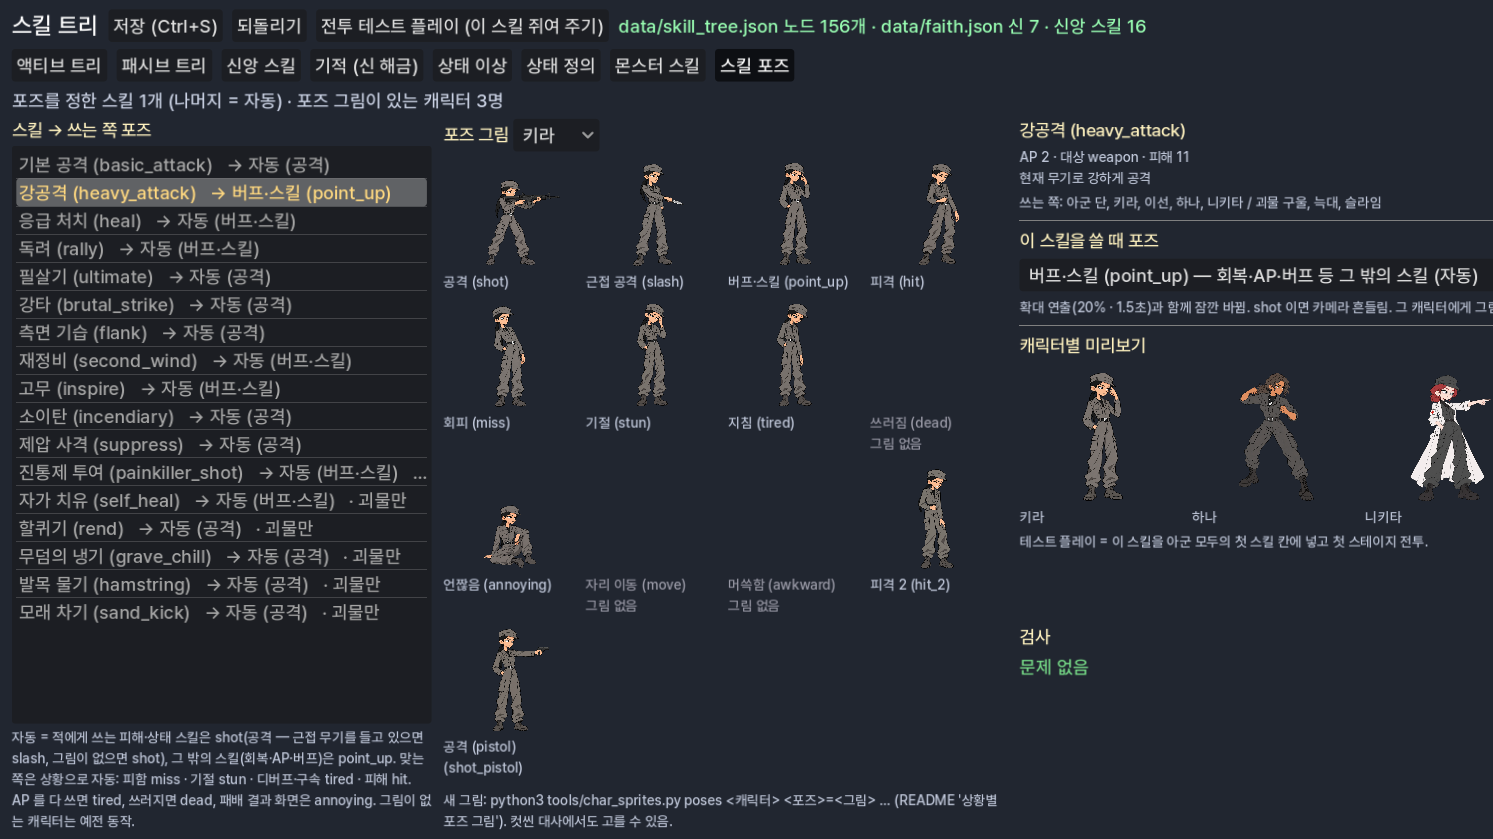
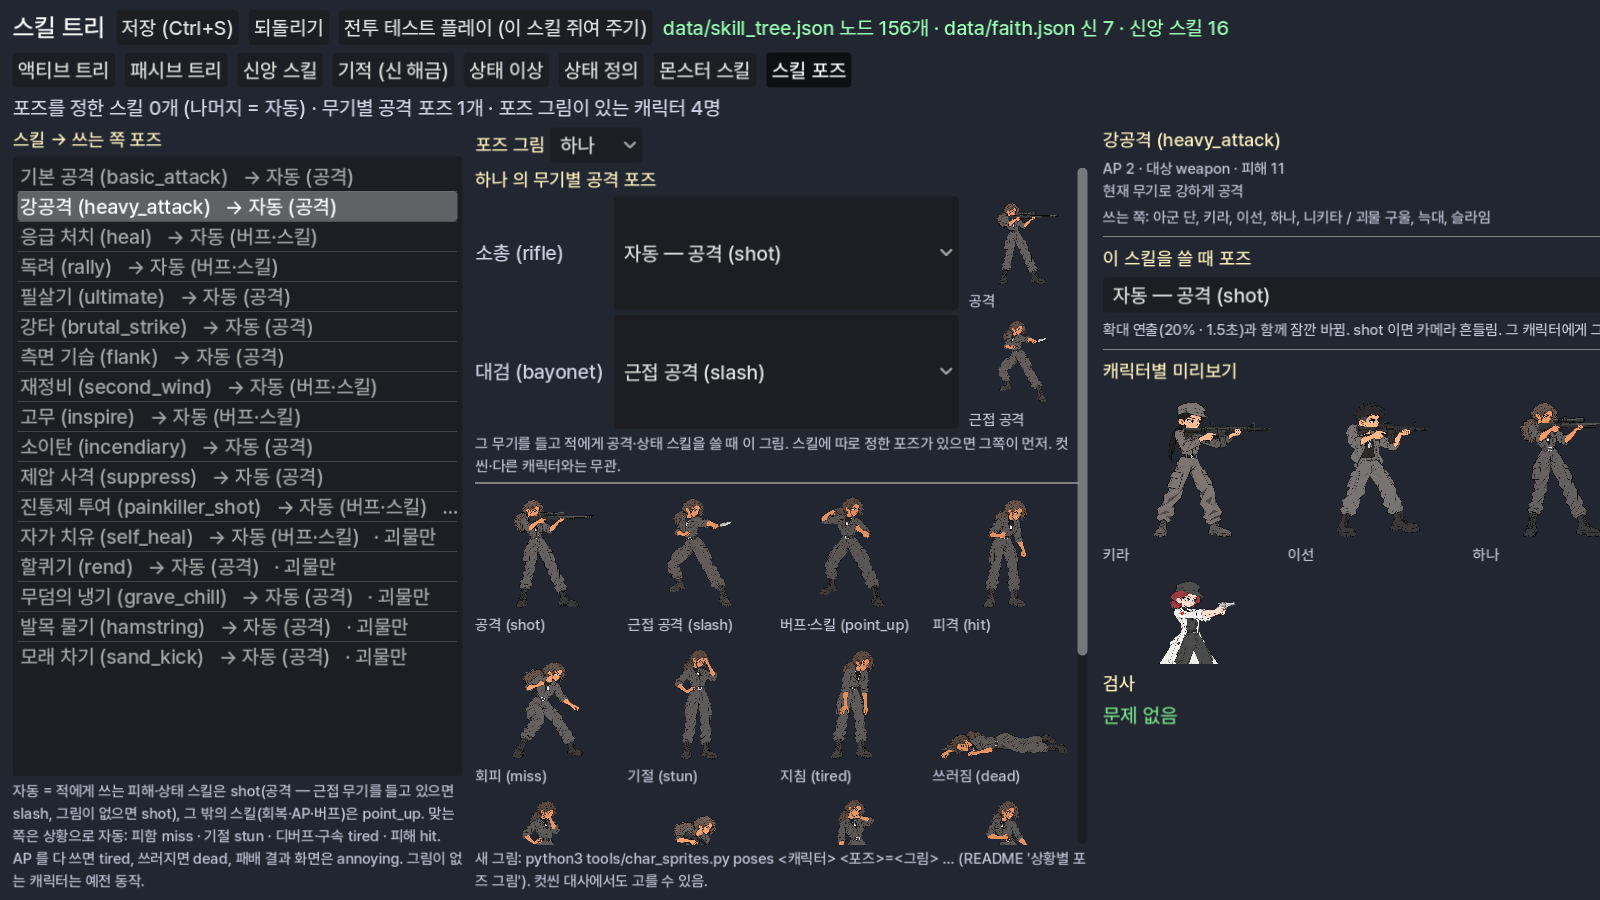
캐릭터 · 무기별 공격 그림을 에디터에서 고름
- SkillPoseData: weapons {캐릭터: {무기: 포즈}} 읽기·쓰기·검사, caster_poses 우선순위 (스킬 포즈 → 무기별 → 자동)
- 스킬 포즈 에디터: 캐릭터 무기마다 공격 포즈 고르기 (자동이면 실제 쓰일 그림 표시)
- 테스트 · 문서 · 스크린샷

Claude-Session: https://claude.ai/code/session_014aytw3hj7boqn3SZ5GP5ti

diff --git a/docs/design/PROTOTYPE_GDD_v1_0.md b/docs/design/PROTOTYPE_GDD_v1_0.md
@@ -4,7 +4,7 @@
 
 ## 0. 현재 구현 반영 (변경될 때마다 갱신)
 > 아래는 원 기획 이후 사용자 결정으로 바뀐 내용. 상세 결정 이력은 `00_decision_log_v1_0.md`, 아트 규격은 `../ui_art_spec.md`.
-> 마지막 갱신: 2026-10-29 (기지 대원 조명 실시간 탐침 · 둥근 발밑 그림자 제거 · 자리 이동은 대원 몸 클릭도)
+> 마지막 갱신: 2026-10-29 (캐릭터 · 무기별 공격 그림을 에디터에서 고름)
 
 - **표현**: 캐릭터 2D **스프라이트 프레임 애니메이션**(**스프라이트 시트** `assets/characters/<id>/<동작>_<칸 수>.png`, 사용자가 제작 — 시트 없는 동작은 기본 그림 한 장. 현재: 하나·니키타·키라·단·이선·앨마 idle(기본 그림 숨쉬기) — 니키타(빨간 머리 의무병 코트)·키라(회색 군복, 최종)·하나(곱슬머리 군복·오른쪽 눈 아래 점, 최종)·앨마(흰 의무 가운)는 새 그림으로 교체되어 예전 걷기·피격·공격 시트는 지움) + 배경 3D(실광원·그림자). Skeleton2D 리그·3D 캐릭터 전환은 제거.
   칠 방식: **전 캐릭터 네온 칠**(선화는 원화 그대로, 면은 원화 밝기대로 조명색으로 덮음 — 어두운 면은 깊은 보라, 밝은 면은 조명색). `character.json` `"style": "classic"` 이면 예전 셀 칠, `"neon_gradient"` 0~1 = 몸 위→아래 색상 그라데이션(기본 끔).
@@ -30,7 +30,7 @@
 - **레벨·스킬**: 전투 출전 → 경험치(승리 100 / 패배 40) → 레벨 업마다 스킬 포인트 +1(처음 1). 기지 `스킬` 버튼·대원 우클릭으로 **스킬 창**: 왼쪽 = 대원 목록(위아래 스크롤, 대원이 늘어나도 그대로), 위 탭 = **액티브 · 패시브 · 신앙** 스킬.
   **액티브**(전투 스킬 강화 · 새 스킬) · **패시브**(능력치) 트리. **모양은 캐릭터마다 자유**(격자 칸 위치 + 선행 선): 시작 노드는 처음부터, 선행을 배워야 다음(하나라도 / 모두), 같은 택일 그룹은 트리마다 하나. 지금 기본 데이터는 모두 십자형(중앙 + 화력·기동·생존·전술 3단계, 갈래 끝 = 택일). 스킬 포인트는 두 트리 공용. 레벨 미달 = 회색 + 붉은 "경험 부족".
   효과는 기지에서 출전한 전투에만(복제본). **노드는 `data/skill_tree.json` — Godot 에디터 `스킬 트리` 탭에서 직접 짬**(빈 칸 클릭 = 새 노드 · 끌어 옮기기 · Shift+클릭 선 잇기 · 모양 틀 5종 · 갈래 색 · 시작 노드 · 선행 · 택일 그룹, 이름·필요 레벨·효과·값·설명, 다른 캐릭터 트리 모양째 가져오기, 검사, 테스트 플레이). 새 스킬은 지금 액티브 갈래 끝에서만(기본 스킬 칸 3개). [임시] 수치·필요 레벨(시작 +0/+2/+4)·무료 초기화.
-- **상황별 포즈 그림**: 캐릭터별 한 장 그림 — 하나 12장(hit · hit_2 · miss · shot 저격총 · slash 대검 · tired · dead · point_up · stun · annoying · move 자리 이동 · awkward 대화용 · shot_pistol) · 이선 9장(dead · hit · tired · slash · shot · shot_pistol · miss · stun · annoying) · 키라 10장(hit · hit_2 · miss · stun · slash · tired · annoying · shot · shot_pistol · point_up) · 같은 포즈의 다른 그림(<포즈>_2)은 무작위 · 무기별 그림(<포즈>_<무기>)은 그 무기일 때 먼저 · 니키타 8장: shot(공격) · point_up(버프·스킬) · hit(피격) · miss(회피) · stun(기절) · tired(디버프·구속·AP 다 씀=탈진) · dead(쓰러짐, 회색 처리 없음) · annoying(패배 결과 화면). 쓰는 쪽 포즈는 스킬마다 에디터 `스킬 포즈`(data/skill_poses.json, 자동 = 적 대상 피해·상태 shot — 근접 무기면 slash / 그 밖 point_up). 잠깐 바꾸는 포즈는 카메라가 캐릭터 가운데로 빠르게 1.5배 줌(캐릭터를 HUD 위 화면 가운데쯤으로) + 캐릭터가 화면 가운데 x −5(뒤쪽)에서 1.5초 동안 가운데로 → 바로 원래 화면 · idle (캐릭터 크기는 그대로, 원래 화면 밖은 안 보이게), shot·hit 때 처음 0.2초 카메라 흔들림. 그림자도 지금 보이는 포즈 그림 모양(쓰러진 그림은 바닥에 눕힌 판). 컷씬 대사 컷마다 포즈 고르기. 연출 값은 View 인스펙터 `포즈 연출`. [임시] 수치 · 탈진 = AP 0 해석.
+- **상황별 포즈 그림**: 캐릭터별 한 장 그림 — 하나 12장(hit · hit_2 · miss · shot 저격총 · slash 대검 · tired · dead · point_up · stun · annoying · move 자리 이동 · awkward 대화용 · shot_pistol) · 이선 9장(dead · hit · tired · slash · shot · shot_pistol · miss · stun · annoying) · 키라 10장(hit · hit_2 · miss · stun · slash · tired · annoying · shot · shot_pistol · point_up) · 같은 포즈의 다른 그림(<포즈>_2)은 무작위 · 무기별 그림(<포즈>_<무기>)은 그 무기일 때 먼저 · 니키타 8장: shot(공격) · point_up(버프·스킬) · hit(피격) · miss(회피) · stun(기절) · tired(디버프·구속·AP 다 씀=탈진) · dead(쓰러짐, 회색 처리 없음) · annoying(패배 결과 화면). 쓰는 쪽 포즈는 스킬마다 에디터 `스킬 포즈`(data/skill_poses.json, 자동 = 적 대상 피해·상태 shot — 근접 무기면 slash / 그 밖 point_up). 캐릭터 · 무기별 공격 그림도 같은 화면에서 고름 (weapons: 스킬 포즈 → 무기별 → 자동 순). 잠깐 바꾸는 포즈는 카메라가 캐릭터 가운데로 빠르게 1.5배 줌(캐릭터를 HUD 위 화면 가운데쯤으로) + 캐릭터가 화면 가운데 x −5(뒤쪽)에서 1.5초 동안 가운데로 → 바로 원래 화면 · idle (캐릭터 크기는 그대로, 원래 화면 밖은 안 보이게), shot·hit 때 처음 0.2초 카메라 흔들림. 그림자도 지금 보이는 포즈 그림 모양(쓰러진 그림은 바닥에 눕힌 판). 컷씬 대사 컷마다 포즈 고르기. 연출 값은 View 인스펙터 `포즈 연출`. [임시] 수치 · 탈진 = AP 0 해석.
 - **신 아이콘 그림**: 신마다 아이콘 그림(assets/gods/) — 있으면 글자 대신. 에디터 신앙 스킬 화면 `아이콘 그림` · `그림 가져오기…`.
 - **명중 · 회피**: 적에게 쓰는 피해·상태 이상 스킬만 판정. 명중률 = 스킬 명중 + 쓰는 캐릭터 명중 − 대상 회피 (5~100%, 100% 면 안 굴림). 빗나감 = 피해·상태 이상 없음(AP 는 씀), `빗나감` 표시 + 피하는 동작. 기절·구속 대상은 회피 0. 대상 고를 때 적마다 `명중 n%`. 엑셀 캐릭터·몬스터 `명중`·`회피` 열, 스킬 `명중` 열(빈칸 = 피해 90 · 상태 이상 85), 몬스터 스킬 에디터 `명중`, 스킬 트리·신앙 효과 명중·회피. [임시] 모든 수치.
 - **전투 상태 이상**: 출혈(최대 HP v%/차례) · 화상(화염 고정 v, 방어 무시) · 동상(차례 n번 뒤 최대 HP v% 1회 후 해제) · 감속/가속(속도 v%) · 기절(n턴 행동 불가, 다른 아군이 기절한 캐릭터와 자리 교환은 가능) · 구속(n턴 이동·교환 불가) · 실명(n턴 대상 무작위: 아군 대상 → 아군 중, 적 대상 → 적 중).

diff --git a/README.md b/README.md
@@ -299,6 +299,7 @@ git 이 없는 설치(zip)는 같은 설치 명령을 다시 실행하면 최신
   **크기 확인**: `python3 tools/char_sprites.py posecheck <캐릭터> [출력.jpg]` — idle · 걷기 · 뛰기 · 모든 포즈를 게임과 같은 배율 · 같은 발 위치로 한 장에 (초록 선 = 기본 그림 키). 지금 세 캐릭터 모두 기본 그림과 키 ±2% · 눈 사이 폭 ±4% 안 ([니키타](docs/screenshots/posecheck_nikita_army.jpg) · [하나](docs/screenshots/posecheck_hero2.jpg) · [키라](docs/screenshots/posecheck_kira.jpg) · [이선](docs/screenshots/posecheck_ethan.jpg)). 전투에서 포즈가 보일 때 크게 보이는 것은 카메라 줌(1.5배, View 인스펙터 `포즈 연출`) — 줌 없이 보기 `--pose_zoom=1`.
   모든 포즈 같은 배율(`--ref` 그림의 키 = 기본 그림 키), 발 = 선 자세는 발 가운데 · 누운 그림(가로가 긴 그림)은 가운데 아래. 새 이름의 포즈도 그대로 넣으면 에디터 목록에 나옴. 그림이 없는 캐릭터는 예전 연출 그대로.
 - **스킬마다 쓰는 쪽 포즈 = Godot 에디터 `스킬 트리` 탭 → `스킬 포즈`** (`data/skill_poses.json`): 스킬 목록(→ 지금 포즈) · `이 스킬을 쓸 때 포즈`(**자동** · **포즈 없음**(예전 공격 동작) · 포즈 이름) · 캐릭터별 미리보기 · 오른쪽 캐릭터별 포즈 그림 모음. 맞는 쪽 포즈는 상황으로 자동 (위 표).
+- **캐릭터 · 무기별 공격 그림 = 같은 화면 오른쪽 `<캐릭터> 의 무기별 공격 포즈`** (`skill_poses.json` → `weapons`): 캐릭터를 고르면 그 캐릭터의 무기(엑셀 `무기` 열)마다 공격할 때 쓸 그림을 고름 — **자동**(그 무기 이름 그림 `shot_pistol` 같은 것이 있으면 그것, 없으면 원거리 shot / 근접 slash — 실제로 쓰일 그림을 함께 표시) 또는 그 캐릭터에게 있는 아무 포즈. 그 무기를 들고 적에게 공격·상태 스킬을 쓸 때 적용. 우선순위: 스킬에 정한 포즈 → 무기별 포즈 → 자동. 그림이 없는 포즈를 고르면 검사 오류.
   맞는 쪽 우선순위: 피함 miss → 기절 stun → 디버프 tired → 피해 hit (그 캐릭터에게 그림이 없으면 다음 후보). 넉백·끌어당김(즉시 효과)은 디버프로 안 침.
 - **자리 이동 클릭**: 자리 이동 중에는 발밑 파란 표시뿐 아니라 **교체할 대원의 몸을 클릭해도** 그 자리와 바꿈 (바꿀 수 없는 대원은 안내, 자기 자신 클릭 = 취소). ![자리 이동 — 대원 몸 클릭](docs/screenshots/battle_move_click.jpg)
 - **전투 연출 (카메라)**: 잠깐 바꾸는 포즈는 **카메라가 그 캐릭터 가운데로 빠르게(0.15초) 1.5배 줌** (캐릭터 가운데가 아래 HUD 위 화면 가운데쯤 `pose_screen_y` 290px 에 오게) — 캐릭터 크기는 그대로. 처음엔 캐릭터가 화면 가운데보다 **x −5px**(뒤쪽 — 적에게서 먼 쪽)에 있다가 **1.5초 동안 천천히 가운데로** → 끝나면 카메라가 움직이지 않고 **바로 원래 화면**, 캐릭터는 **idle**.
@@ -319,7 +320,7 @@ git 이 없는 설치(zip)는 같은 설치 명령을 다시 실행하면 최신
 ![키라 slash · tired / shot(소총) · shot_pistol(권총)](docs/screenshots/battle_poses_kira2.jpg)
 ![이선 hit · slash / tired · dead](docs/screenshots/battle_poses_ethan.jpg)
 ![패배 결과 화면 — 니키타 · 하나 · 키라 annoying](docs/screenshots/result_lose_poses.jpg)
-![스킬 포즈 에디터 (스킬 트리 탭 → 스킬 포즈)](docs/screenshots/skill_pose_editor.png)
+![스킬 포즈 에디터 (스킬 트리 탭 → 스킬 포즈) — 오른쪽 위 무기별 공격 포즈](docs/screenshots/skill_pose_editor.png)
 
 ## 기지 대원 조명 · 그림자 (실시간)
 기지 대원은 방 프리셋 색을 한 번에 입는 게 아니라 **지금 서 있는 자리에 실제로 닿는 방 스폿 조명**으로 매 프레임 칠합니다 (`BaseView3D.light_probe` → `NpcView`).

diff --git a/docs/design/00_decision_log_v1_0.md b/docs/design/00_decision_log_v1_0.md
@@ -395,6 +395,10 @@
   - 기지 대원 칠: 방에 들어갈 때 프리셋 색으로 바꾸던 것을, 전투처럼 자리에 닿는 조명 탐침(BaseView3D.light_probe — 그 방 안의 스폿·출입문 노을빛, 원뿔·거리 감쇠)으로 매 프레임. 색·세기는 0.25초쯤 섞고, 빛 좌우는 조명이 머리 바로 위(±0.15m)일 때 안 바꿔 떨림 방지. 왼쪽을 보면 텍스처 기준 빛 방향 반전.
   - 방 프리셋은 그림자·주변광 색에만 남음. 조명 원뿔 밖은 주변광만 → 같은 방에서도 자리에 따라 밝기가 다름.
 
+- **2026-10-29 캐릭터 · 무기별 공격 그림 설정** (사용자 요청)
+  - 전에는 폴더 이름(shot_pistol)으로만 무기별 그림이 정해졌음 → 에디터 '스킬 포즈' 오른쪽 위에 '<캐릭터> 의 무기별 공격 포즈': 무기마다 자동(실제 쓰일 그림 표시) 또는 그 캐릭터의 아무 포즈. data/skill_poses.json "weapons" {캐릭터 스프라이트: {무기 스프라이트: 포즈}}.
+  - 우선순위: 스킬에 정한 포즈 → 캐릭터·무기별 포즈(공격·상태 스킬일 때만, 회복·버프는 point_up 그대로) → 자동(<포즈>_<무기> 그림 → shot / slash).
+
 ## 검증 중 (확정 아님)
 - **배경 3D + 캐릭터 2D 하이브리드** (2026-10-25 적용): 배경은 3D 방을 2D 카메라와 같은 투영으로 렌더, 캐릭터 라이팅은 실제 광원 위치 기준
   (빛 쪽 얼굴·몸을 광원색으로 밝힘 + 빛이 뒤에서 오면 같은 쪽 가장자리 림 + 바닥 그림자). 캐릭터 2D(리그)는 확정 사항 유지. (이전 2D 배경 판은 2026-10-27 제거.)
